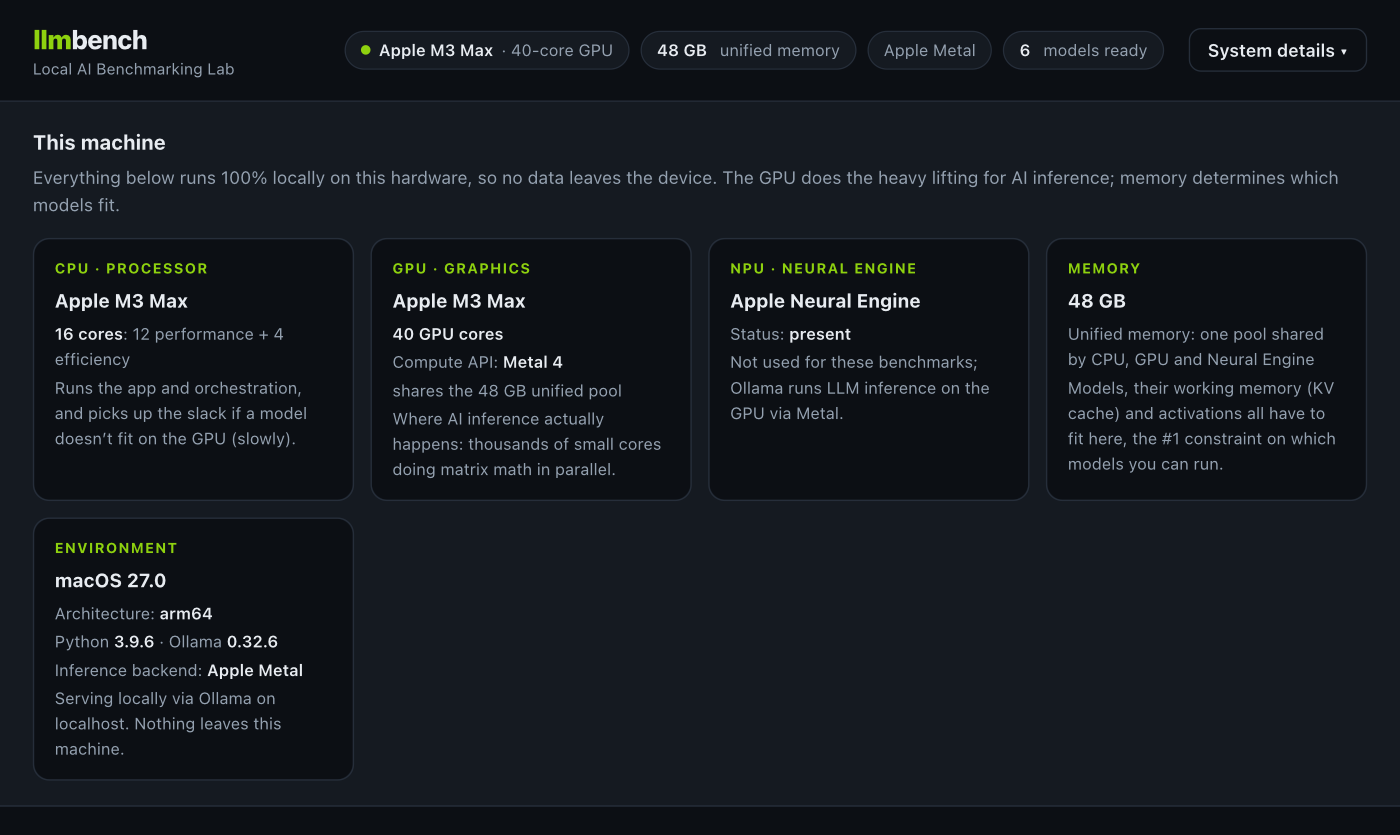
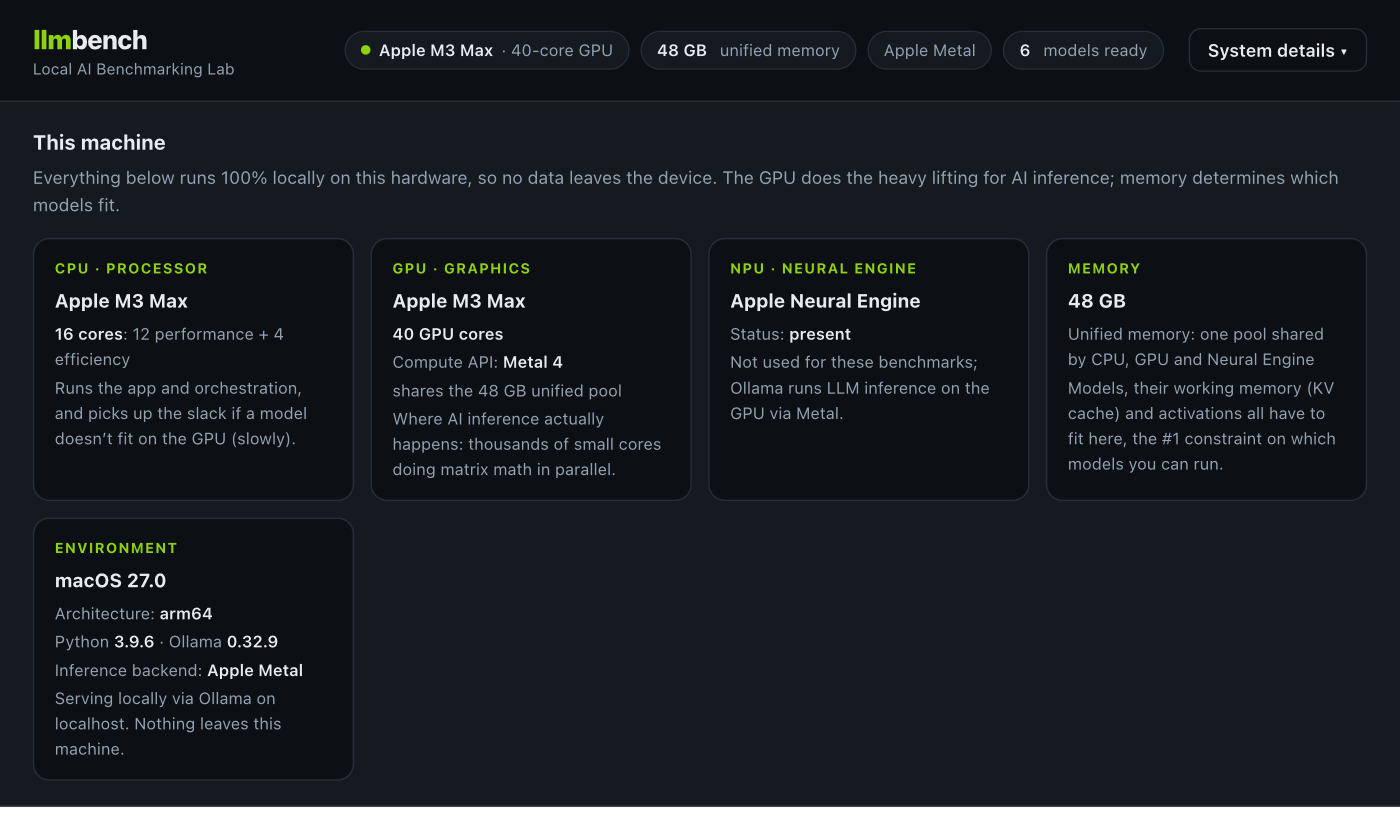
Add `bench.py adopt` to bring CLI results into the web UI
A CLI batch writes one file containing many cells, while the web UI stores one
folder per run, so batch results were invisible in the Runs, Compare and
Cross-System views. `adopt` splits each cell into its own run, reusing the same
summarize() the interactive path uses so metrics match exactly, and writing a
single-cell results document alongside it so the per-run HTML report still
works. Runs carry a source fingerprint, making re-adoption idempotent rather
than duplicating: verified by adopting 59 runs and then re-running the command,
which skipped all 59.

Also refreshed the system-panel screenshot.

Changed region(s): [[0.0, 0.9653, 1.0, 1.0]]

diff --git a/bench.py b/bench.py
@@ -142,6 +142,75 @@ def cmd_import(args: argparse.Namespace) -> int:
     return 0
 
 
+def cmd_adopt(args: argparse.Namespace) -> int:
+    """Turn CLI results files into web-UI runs.
+
+    A CLI batch writes one file containing many cells; the web UI stores one
+    folder per run. This splits each cell into its own run so batch results
+    show up in the Runs, Compare and Cross-System views alongside interactive
+    ones, without re-running anything.
+    """
+    from llmbench.server import summarize
+    from llmbench.store import RunStore
+
+    store = RunStore(os.path.join(HERE, "runs"))
+    existing = {r.get("source_cell") for r in store.list() if r.get("source_cell")}
+    adopted = skipped = 0
+
+    for path in sorted(args.results):
+        with open(path, "r", encoding="utf-8") as f:
+            result = json.load(f)
+        meta_in = result.get("meta", {})
+        if not result.get("cells"):
+            print(f"  ! {os.path.basename(path)}: no cells, skipping", file=sys.stderr)
+            continue
+        stamp = datetime.datetime.fromtimestamp(
+            os.path.getmtime(path)).isoformat(timespec="seconds")
+
+        for i, cell in enumerate(result["cells"], 1):
+            # Stable identity so re-adopting the same file does not duplicate.
+            fingerprint = f"{os.path.basename(path)}#{cell['label']}"
+            if fingerprint in existing:
+                skipped += 1
+                continue
+            run_id = store._unique_id(
+                f"{_slug(meta_in.get('config_name','run'))}-"
+                f"{_slug(meta_in.get('system',{}).get('label','sys'))}-{i:02d}")
+            summary = summarize(cell, meta_in)
+            store.save(run_id, {
+                "id": run_id,
+                "created": stamp,
+                "state": "done",
+                "name": f"{meta_in.get('config_name','run')} · {cell['label']}",
+                "model": cell.get("model", ""),
+                "engine": meta_in.get("engine", "Ollama"),
+                "system": meta_in.get("system", {}),
+                "options": meta_in.get("options", {}),
+                "num_ctx": cell.get("context_length"),
+                "runs": meta_in.get("runs"),
+                "warmup": meta_in.get("warmup"),
+                "measure_cold_start": meta_in.get("measure_cold_start"),
+                "prompt": {"text": cell.get("prompt_text", ""),
+                           "files": [], "images": []},
+                "metrics": summary["metrics"],
+                "attachments": cell.get("attachments", {}),
+                "output": summary["output"],
+                "thinking_chars": summary["thinking_chars"],
+                "ollama_version": meta_in.get("ollama_version", ""),
+                "source_cell": fingerprint,
+                "adopted_from": os.path.basename(path),
+            # The per-run report needs a results-shaped document, so give it
+            # this cell alone under the original run's metadata.
+            }, {"meta": meta_in, "cells": [cell]})
+            adopted += 1
+        print(f"  {os.path.basename(path)}: {len(result['cells'])} cell(s)")
+
+    print(f"\nAdopted {adopted} run(s)" +
+          (f", skipped {skipped} already present" if skipped else ""))
+    print("Open the web UI to browse them: python bench.py serve")
+    return 0
+
+
 def cmd_eval(args: argparse.Namespace) -> int:
     from llmbench import evals
     from llmbench.agent import Agent
@@ -218,6 +287,10 @@ def main(argv=None) -> int:
     pim = sub.add_parser("import", help="import a run bundle from another machine")
     pim.add_argument("bundle")
     pim.set_defaults(func=cmd_import)
+
+    pad = sub.add_parser("adopt", help="import CLI results files into the web-UI run history")
+    pad.add_argument("results", nargs="+", help="one or more results JSON files")
+    pad.set_defaults(func=cmd_adopt)
 
     pev = sub.add_parser("eval", help="run an evaluation suite (rag | guardrails)")
     pev.add_argument("suite", help="'rag', 'guardrails', or a path to a suite JSON")

diff --git a/README.md b/README.md
@@ -132,6 +132,7 @@ python bench.py report results/quant-sweep_*.json --out results/report.html
 | `export RUN_ID` | Export a web-UI run to a portable `.llmbench.json` bundle |
 | `import BUNDLE` | Import a run bundle from another machine |
 | `eval SUITE` | Run an evaluation suite (`rag`, `guardrails`, or a JSON path) |
+| `adopt RESULTS...` | Import CLI results files into the web-UI run history, one run per cell |
 
 Useful flags: `run --label "<name>"` (system label shown in the report),
 `run --runs N` (override measured repeats), `--base-url` (remote Ollama).
